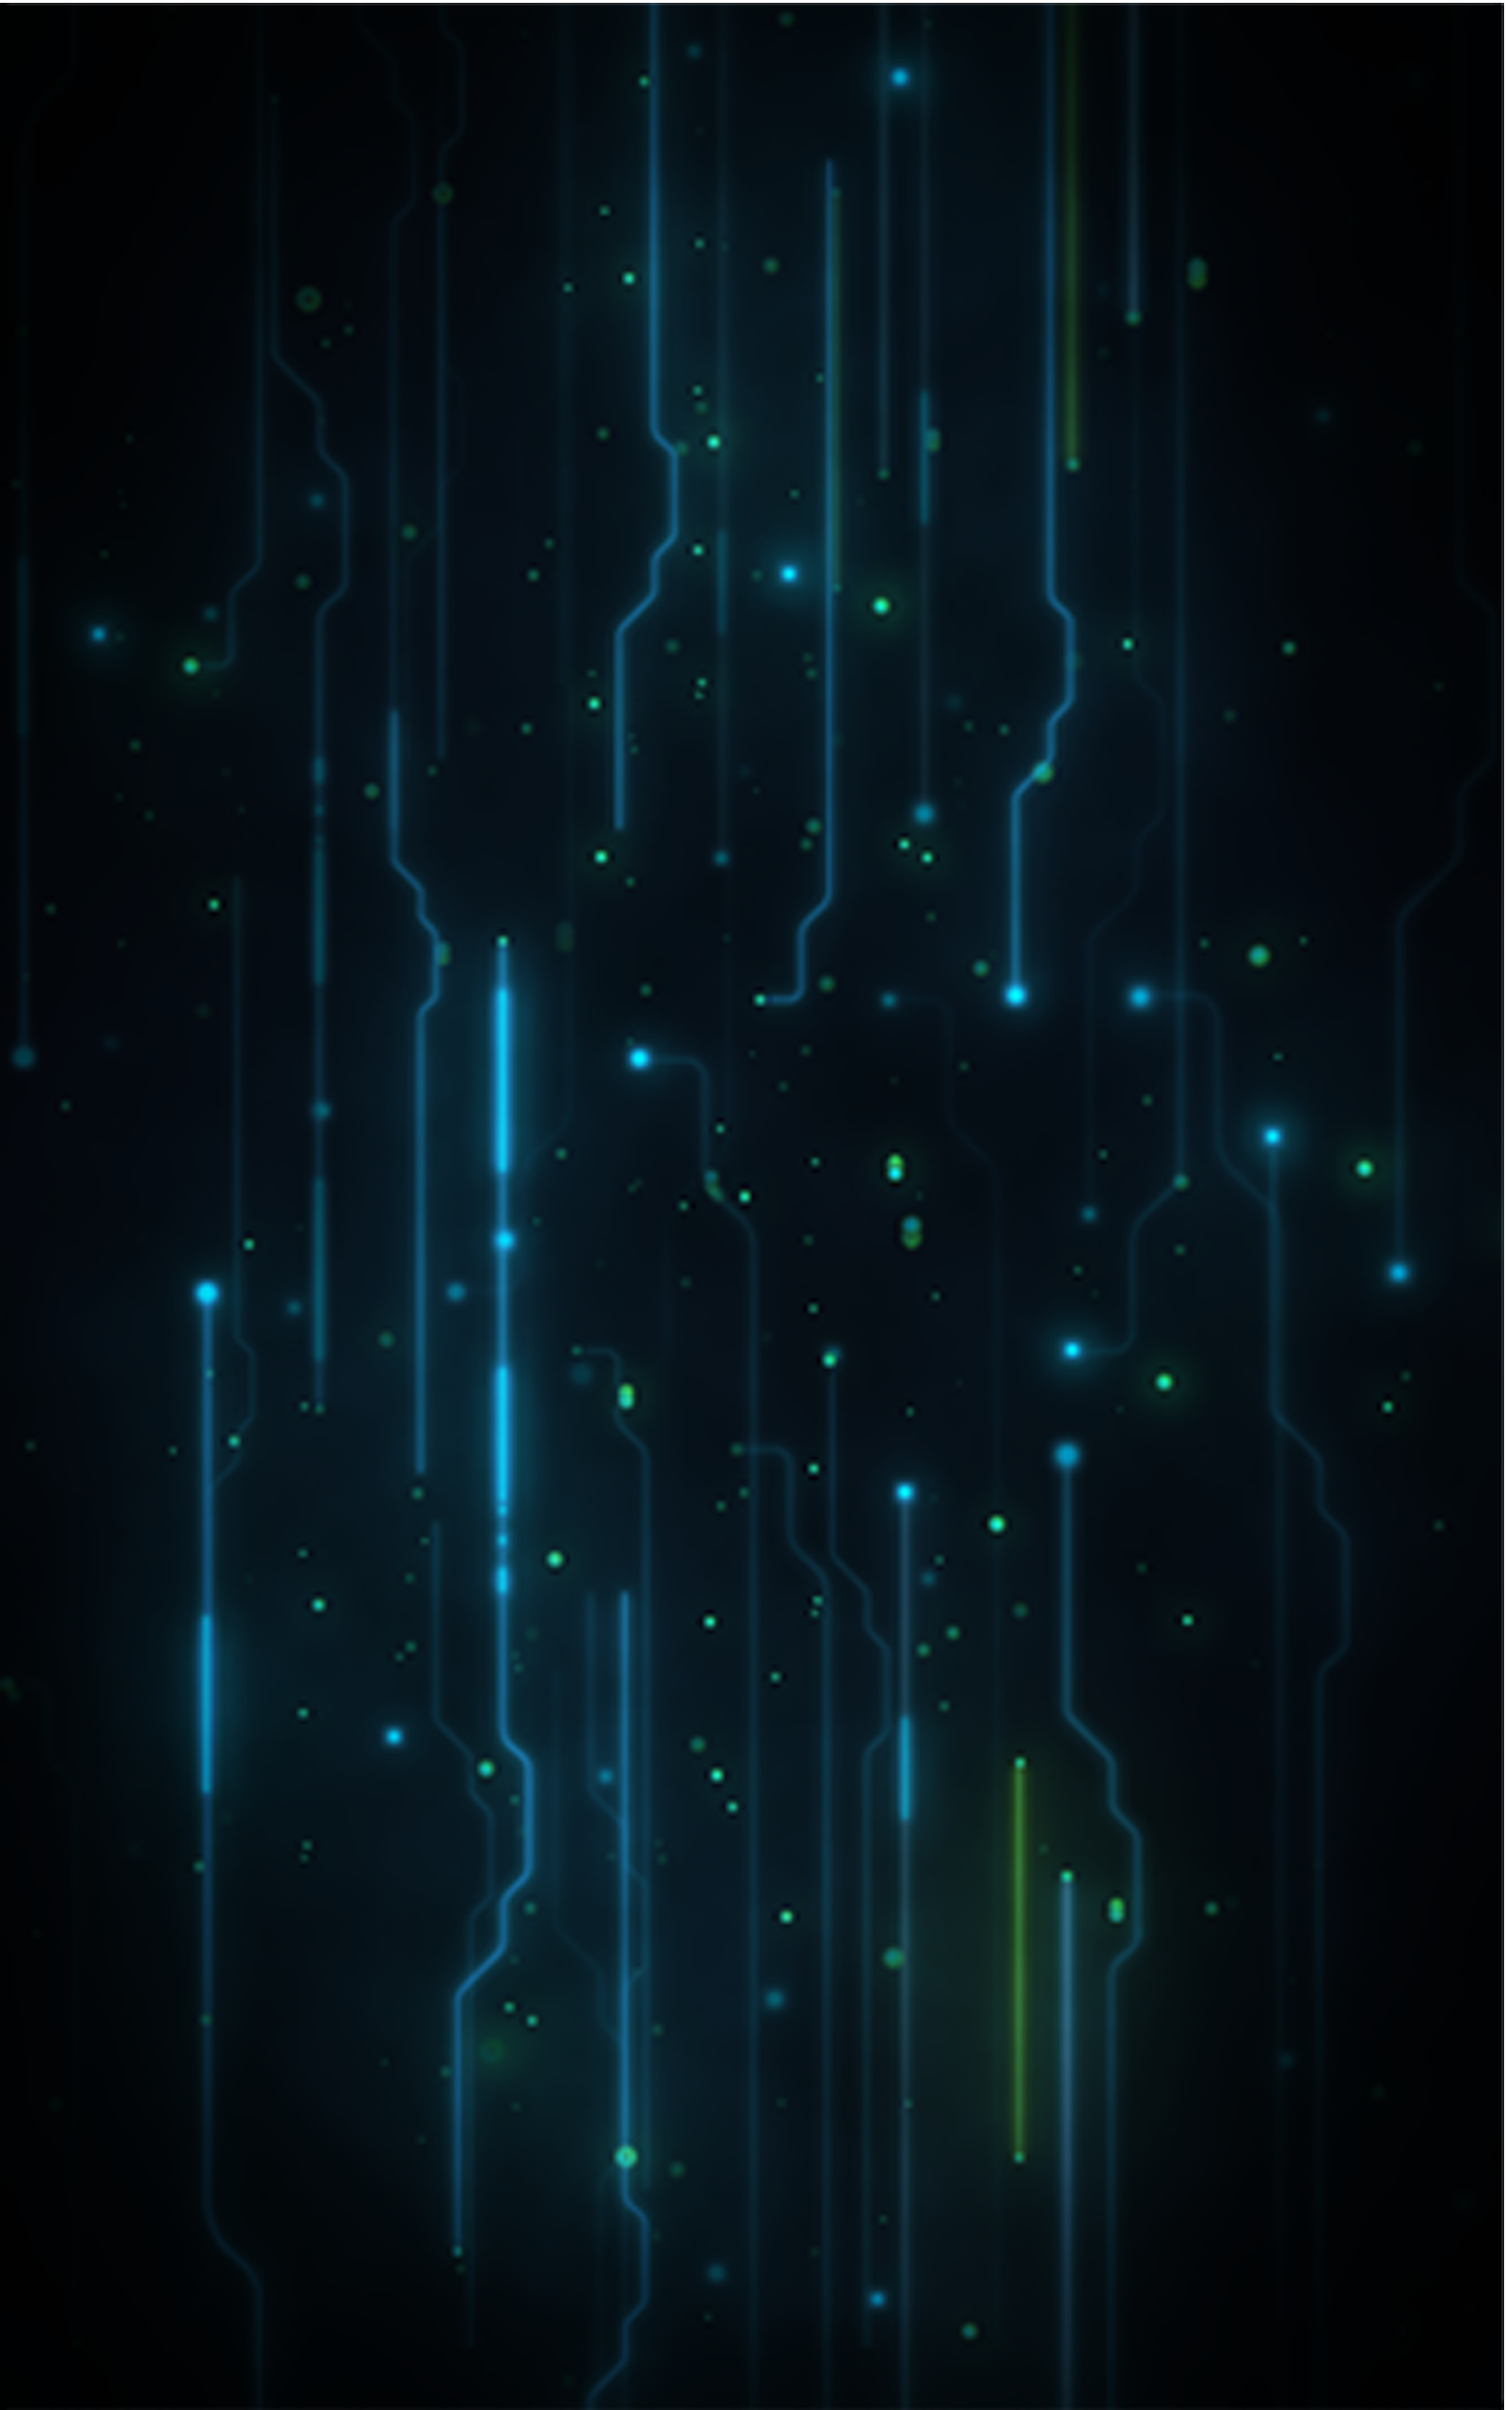
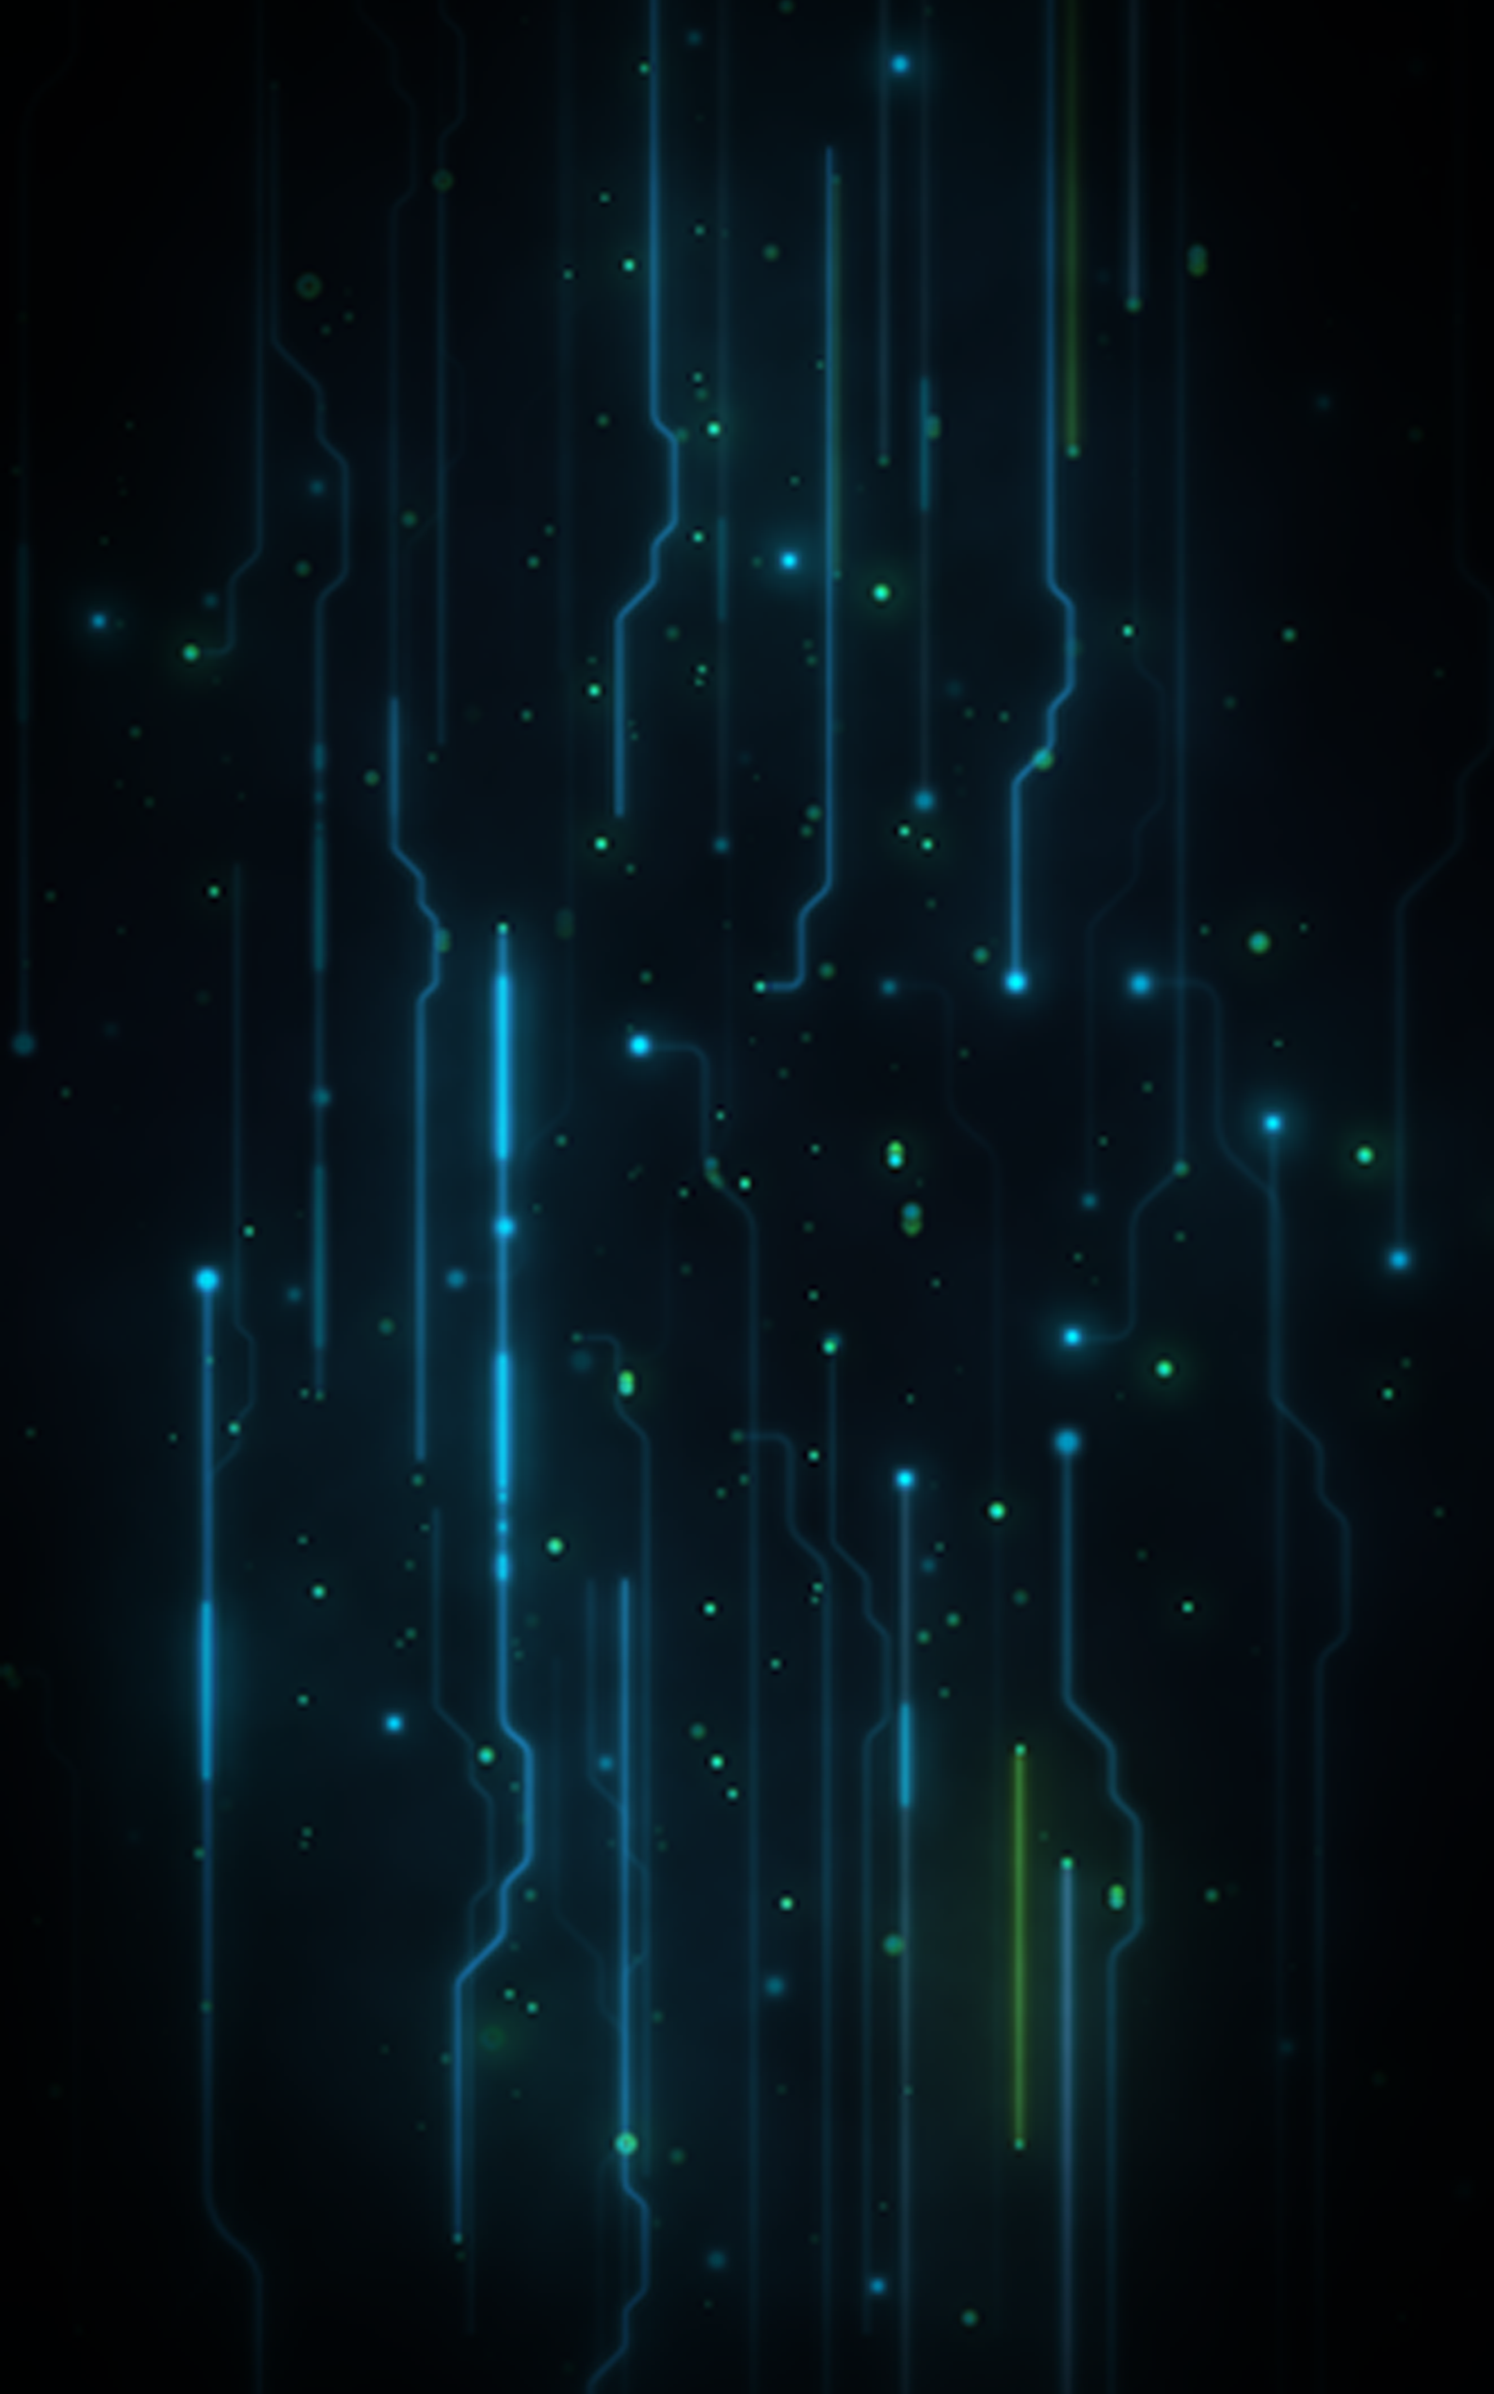
ajustes css. imagen background y header

diff --git a/WebPrincipal.html b/WebPrincipal.html
@@ -11,77 +11,77 @@
         <header>
             <h1 id="titulo">Mytems</h1>
         </header>
-        <div class="container" id="cajaproductos">
+        <div class="container">
             <div class="row">
-                <div class="col-md-3 col-sm-3 product" >
+                <div class="col-md-3 col-sm-3 col-lg-3 product" >
                     <a href="paginaDetalle.html"><img class="img-fluid" alt="" src="https://i.blogs.es/59bfa7/nvidiageforcertx4090-ap/1366_2000.jpeg"/></a>
                     <p class="nombre_producto">RTX 4090</p>
                     <p class="precio">1500</p>
                 </div>
-                <<div class="col-md-3 col-sm-3 product" >
+                <div class="col-md-3 col-sm-3 col-lg-3 product" >
                     <a href="paginaDetalle.html"><img class="img-fluid" alt="" src="https://i.blogs.es/59bfa7/nvidiageforcertx4090-ap/1366_2000.jpeg"/></a>
                     <p class="nombre_producto">RTX 4090</p>
                     <p class="precio">1500</p>
                 </div>
-                <div class="col-md-3 col-sm-3 product" >
+                <div class="col-md-3 col-sm-3 col-lg-3 product" >
                     <a href="paginaDetalle.html"><img class="img-fluid" alt="" src="https://i.blogs.es/59bfa7/nvidiageforcertx4090-ap/1366_2000.jpeg"/></a>
                     <p class="nombre_producto">RTX 4090</p>
                     <p class="precio">1500</p>
                 </div>
             </div>
             <div class="row">
-                <div class="col-md-3 col-sm-3 product" >
+                <div class="col-md-3 col-sm-3 col-lg-3 product" >
                     <a href="paginaDetalle.html"><img class="img-fluid" alt="" src="https://i.blogs.es/59bfa7/nvidiageforcertx4090-ap/1366_2000.jpeg"/></a>
                     <p class="nombre_producto">RTX 4090</p>
                     <p class="precio">1500</p>
                 </div>
-                <div class="col-md-3 col-sm-3 product" >
+                <div class="col-md-3 col-sm-3 col-lg-3 product" >
                     <a href="paginaDetalle.html"><img class="img-fluid" alt="" src="https://i.blogs.es/59bfa7/nvidiageforcertx4090-ap/1366_2000.jpeg"/></a>
                     <p class="nombre_producto">RTX 4090</p>
                     <p class="precio">1500</p>
                 </div>
-                <div class="col-md-3 col-sm-3 product" >
-                    <a href="paginaDetalle.html"><img class="img-fluid" alt="" src="https://i.blogs.es/59bfa7/nvidiageforcertx4090-ap/1366_2000.jpeg"/></a>
-                    <p class="nombre_producto">RTX 4090</p>
-                    <p class="precio">1500</p>
-                </div>
-            </div>
-            <div class="row">
-                <div class="col-md-3 col-sm-3 product" >
-                    <a href="paginaDetalle.html"><img class="img-fluid" alt="" src="https://i.blogs.es/59bfa7/nvidiageforcertx4090-ap/1366_2000.jpeg"/></a>
-                    <p class="nombre_producto">RTX 4090</p>
-                    <p class="precio">1500</p>
-                </div>
-                <div class="col-md-3 col-sm-3 product" >
-                    <a href="paginaDetalle.html"><img class="img-fluid" alt="" src="https://i.blogs.es/59bfa7/nvidiageforcertx4090-ap/1366_2000.jpeg"/></a>
-                    <p class="nombre_producto">RTX 4090</p>
-                    <p class="precio">1500</p>
-                </div>
-                <div class="col-md-3 col-sm-3 product" >
+                <div class="col-md-3 col-sm-3 col-lg-3 product" >
                     <a href="paginaDetalle.html"><img class="img-fluid" alt="" src="https://i.blogs.es/59bfa7/nvidiageforcertx4090-ap/1366_2000.jpeg"/></a>
                     <p class="nombre_producto">RTX 4090</p>
                     <p class="precio">1500</p>
                 </div>
             </div>
             <div class="row">
-                <div class="col-md-3 col-sm-3 product" >
+                <div class="col-md-3 col-sm-3 col-lg-3 product" >
                     <a href="paginaDetalle.html"><img class="img-fluid" alt="" src="https://i.blogs.es/59bfa7/nvidiageforcertx4090-ap/1366_2000.jpeg"/></a>
                     <p class="nombre_producto">RTX 4090</p>
                     <p class="precio">1500</p>
                 </div>
-                <div class="col-md-3 col-sm-3 product" >
+                <div class="col-md-3 col-sm-3 col-lg-3 product" >
                     <a href="paginaDetalle.html"><img class="img-fluid" alt="" src="https://i.blogs.es/59bfa7/nvidiageforcertx4090-ap/1366_2000.jpeg"/></a>
                     <p class="nombre_producto">RTX 4090</p>
                     <p class="precio">1500</p>
                 </div>
-                <div class="col-md-3 col-sm-3 product" >
+                <div class="col-md-3 col-sm-3 col-lg-3 product" >
                     <a href="paginaDetalle.html"><img class="img-fluid" alt="" src="https://i.blogs.es/59bfa7/nvidiageforcertx4090-ap/1366_2000.jpeg"/></a>
                     <p class="nombre_producto">RTX 4090</p>
                     <p class="precio">1500</p>
                 </div>
             </div>
             <div class="row">
-                <div class="col-md-3 col-sm-3 product" >
+                <div class="col-md-3 col-sm-3 col-lg-3 product" >
+                    <a href="paginaDetalle.html"><img class="img-fluid" alt="" src="https://i.blogs.es/59bfa7/nvidiageforcertx4090-ap/1366_2000.jpeg"/></a>
+                    <p class="nombre_producto">RTX 4090</p>
+                    <p class="precio">1500</p>
+                </div>
+                <div class="col-md-3 col-sm-3 col-lg-3 product" >
+                    <a href="paginaDetalle.html"><img class="img-fluid" alt="" src="https://i.blogs.es/59bfa7/nvidiageforcertx4090-ap/1366_2000.jpeg"/></a>
+                    <p class="nombre_producto">RTX 4090</p>
+                    <p class="precio">1500</p>
+                </div>
+                <div class="col-md-3 col-sm-3 col-lg-3 product" >
+                    <a href="paginaDetalle.html"><img class="img-fluid" alt="" src="https://i.blogs.es/59bfa7/nvidiageforcertx4090-ap/1366_2000.jpeg"/></a>
+                    <p class="nombre_producto">RTX 4090</p>
+                    <p class="precio">1500</p>
+                </div>
+            </div>
+            <div class="row">
+                <div class="col-md-3 col-sm-3 col-lg-3 product" >
                     <a href="paginaDetalle.html"><img class="img-fluid" alt="" src="https://i.blogs.es/59bfa7/nvidiageforcertx4090-ap/1366_2000.jpeg"/></a>
                     <p class="nombre_producto">RTX 4090</p>
                     <p class="precio">1500</p>
@@ -91,7 +91,7 @@
                     <p class="nombre_producto">RTX 4090</p>
                     <p class="precio">1500</p>
                 </div>
-                <div class="col-md-3 col-sm-3 product" >
+                <div class="col-md-3 col-sm-3 col-lg-3 product" >
                     <a href="paginaDetalle.html"><img class="img-fluid" alt="" src="https://i.blogs.es/59bfa7/nvidiageforcertx4090-ap/1366_2000.jpeg"/></a>
                     <p class="nombre_producto">RTX 4090</p>
                     <p class="precio">1500</p>

diff --git a/WebPrincipal.css b/WebPrincipal.css
@@ -7,15 +7,17 @@
 }
 #titulo{
     text-align: center;
-    color:white;
+    color:rgb(40, 143, 238);
+    text-shadow: 2px 2px white;
 }
 header{
     background-color: rgba(38, 0, 255, 0.484);
+    height: 55px;
 }
 body{
     margin-bottom: 20px;
     background-image: url("background.png");
-    background-size: 100%;
+    background-size: 105%;
 }
 .row{
     justify-content: center;
@@ -25,6 +27,8 @@ button{
     padding: 0.5rem 1rem;
     width: 150px;
     margin: 0 auto;
+    background-color: rgba(38, 0, 255, 0.755);
+    color: whitesmoke;
 }
 img{
     margin:5px;
@@ -36,4 +40,7 @@ img{
 .precio{
     font-size:medium;
     font-style: italic;
+}
+a{
+    text-decoration: none;
 }
